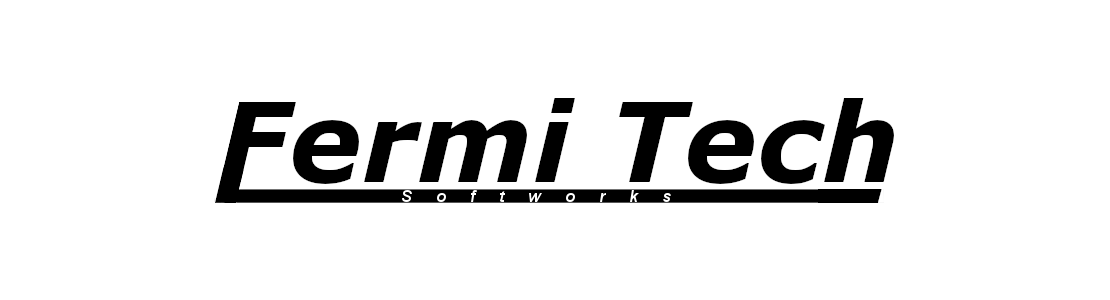
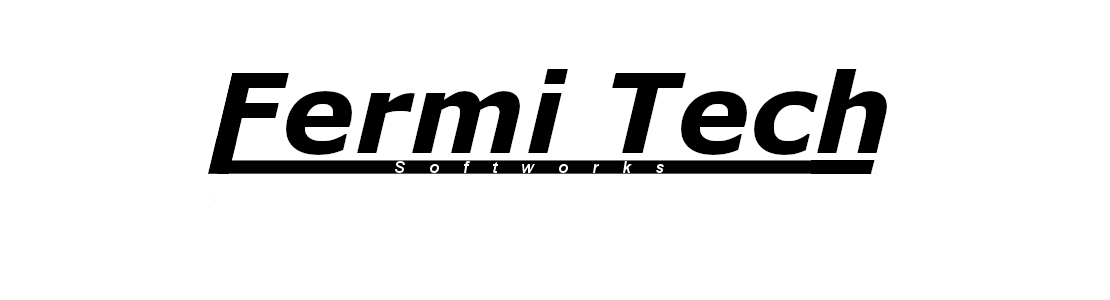
Add product list and product edit page

Changed region(s): [[0.1838, 0.21, 0.827, 0.69]]

diff --git a/templates/Amministrazione/Prodotti/product_edit.htm b/templates/Amministrazione/Prodotti/product_edit.htm
@@ -1,0 +1,32 @@
+{% extends "stampo.htm" %}
+{% block title %}Aggiunta prodotto{% endblock %}
+{% block content %}
+<form action="/prodotto_edit/{{prodotto.pid}}" method="POST">
+    <div class="form-row">
+        <div class="form-group col-md-3">
+            <label for="nome" class="col-form-label">Nome del prodotto</label>
+            <input type="text" class="form-control" id="nome" placeholder="Qualcosa-one" value="{{prodotto.nome}}"
+                   name="nome">
+        </div>
+        <div class="form-group col-md-9">
+            <label for="dbreve" class="col-form-label">Descrizione breve</label>
+            <input type="text" class="form-control" id="dbreve" placeholder="Un potente software che..."
+                   value="{{prodotto.descrizione_breve}}" name="dbreve">
+        </div>
+    </div>
+    <div class="form-row">
+        <label for="destesa" class="col-form-label">Descrizione estesa</label>
+        <textarea class="form-control" id="destesa" rows="6" name="destesa">{{prodotto.descrizione}}</textarea>
+    </div>
+    <div class="form-row">
+        <div class="form-group col-md-7">
+            <label for="download" class="col-form-label">Link per il download</label>
+            <input type="text" class="form-control" id="download" placeholder="https://github.com/"
+                   value="{{prodotto.downlink}}" name="download">
+        </div>
+    </div>
+    <div class="form-group row">
+        <button type="submit" class="btn btn-primary btn-block">Salva</button>
+    </div>
+</form>
+{%endblock%}

diff --git a/templates/main.htm b/templates/main.htm
@@ -6,7 +6,7 @@
         <div class="carousel-item active">
             <img class="d-block w-100" width="1280" height="300" src="{{ url_for('static', filename='Fermitech.png') }}"
                  alt="First slide">
-            <div class="carousel-caption d-none d-md-block" style="color:white;text-shadow: -1px -1px 0 #000, 1px -1px 0 #000, -1px 1px 0 #000, 1px 1px 0 #000;">
+            <div class="carousel-caption d-none d-md-block" style="color:black;text-shadow: -1px -1px 0 #FFF, 1px -1px 0 #FFF, -1px 1px 0 #FFF, 1px 1px 0 #FFF;">
                 <h5>Benvenuto sul sito di Fermitech Softworks.</a></h5>
                 <p>"Prova"</p>
             </div>
@@ -16,7 +16,7 @@
             <img class="d-block w-100" width="1280" height="300" src="static/{{elemento.image}}" alt="{{loop.index+1}}">
             <div class="carousel-caption d-none d-md-block" >
                 <h5><a href="/product_inspect/{{elemento.pid}}" style="text-shadow: -1px -1px 0 #FFF, 1px -1px 0 #FFF, -1px 1px 0 #FFF, 1px 1px 0 #FFF;">{{elemento.nome}}</a></h5>
-                <p style="color:white;text-shadow: -1px -1px 0 #000, 1px -1px 0 #000, -1px 1px 0 #000, 1px 1px 0 #000;">{{elemento.descrizione_breve}}</p>
+                <p style="color:black;text-shadow: -1px -1px 0 #FFF, 1px -1px 0 #FFF, -1px 1px 0 #FFF, 1px 1px 0 #FFF;">{{elemento.descrizione_breve}}</p>
             </div>
         </div>
         {%endfor%}

diff --git a/templates/Amministrazione/Prodotti/prodotti_list.htm b/templates/Amministrazione/Prodotti/prodotti_list.htm
@@ -1,0 +1,19 @@
+{% extends "stampo.htm" %}
+{% block title %}Lista prodotti{% endblock %}
+{% block content %}
+<h3>Lista prodotti</h3>
+<table class="table table-hover">
+        <thead>
+        <tr>
+            <th>Prodotto</th>
+            <th>Azioni</th>
+        </tr>
+        </thead>
+        {% for prodotto in prodotti %}
+            <tr>
+                <td>{{ prodotto.nome }}</td>
+                <td><a href="/prodotto_edit/{{ prodotto.pid }}"><i class="fa fa-pencil" aria-hidden="true"></i></a> <a href="/prodotto_del/{{ prodotto.pid }}"><i class="fa fa-ban" aria-hidden="true"></i></a></td>
+            </tr>
+        {% endfor %}
+    </table>
+{%endblock%}

diff --git a/templates/Amministrazione/amministrazione.htm b/templates/Amministrazione/amministrazione.htm
@@ -12,7 +12,7 @@
                     <p class="card-text">Esegui operazioni sui prodotti attualmente registrati.</p>
                     <div class="row">
                         <div class="col-md-4">
-                            <a href="/product_list" class="btn btn-primary btn-block">Lista</a>
+                            <a href="/prodotti_list" class="btn btn-primary btn-block">Lista</a>
                         </div>
                         <div class="col-md-4">
                             <a href="/product_add" class="btn btn-success btn-block">Aggiungi</a>

diff --git a/server.py b/server.py
@@ -5,7 +5,6 @@ import bcrypt
 import os
 import markdown
 
-
 app = Flask(__name__)
 app.secret_key = "debug-attivo"
 UPLOAD_FOLDER = './static'
@@ -119,8 +118,8 @@ def page_product_inspect(pid):
     req = generate_markdown(req)
     lic = generate_markdown(lic)
     down = generate_markdown(down)
-    print(desc, req, lic, down)
-    return render_template("product_inspect.htm", user=users, prodotto=prodotto, css=css, desc=desc, req=req, lic=lic, down=down)
+    return render_template("product_inspect.htm", user=users, prodotto=prodotto, css=css, desc=desc, req=req, lic=lic,
+                           down=down)
 
 
 @app.route('/members')
@@ -144,7 +143,6 @@ def page_amministrazione():
             abort(403)
 
 
-
 @app.route('/product_add', methods=["POST", "GET"])
 def page_product_add():
     if 'username' not in session:
@@ -162,16 +160,47 @@ def page_product_add():
         if file and allowed_file(file.filename):
             filename = secure_filename(file.filename)
             file.save(os.path.join(app.config['UPLOAD_FOLDER'], filename))
-        prodotto = Prodotto(request.form['nome'], request.form['destesa'], request.form['dbreve'], request.form['download'], str(file.filename))
+        prodotto = Prodotto(request.form['nome'], request.form['destesa'], request.form['dbreve'],
+                            request.form['download'], str(file.filename))
         db.session.add(prodotto)
         db.session.commit()
         return redirect(url_for('page_amministrazione'))
 
 
+@app.route('/prodotti_list')
+def page_prodotti_list():
+    if 'username' not in session:
+        abort(403)
+    utente = find_user(session['username'])
+    prodotti = Prodotto.query.all()
+    css = url_for("static", filename="style.css")
+    return render_template("Amministrazione/Prodotti/prodotti_list.htm", css=css, utente=utente, prodotti=prodotti)
+
+
+@app.route('/prodotto_edit/<int:pid>', methods=["POST", "GET"])
+def page_prodotto_edit(pid):
+    if 'username' not in session:
+        return abort(403)
+    if request.method == 'GET':
+        utente = find_user(session['username'])
+        prodotto = Prodotto.query.get_or_404(pid)
+        css = url_for("static", filename="style.css")
+        return render_template("Amministrazione/Prodotti/product_edit.htm", css=css, utente=utente, prodotto=prodotto)
+    else:
+        prodotto = Prodotto.query.get_or_404(pid)
+        prodotto.nome = request.form['nome']
+        prodotto.descrizione_breve = request.form['dbreve']
+        prodotto.descrizione = request.form['destesa']
+        prodotto.downlink = request.form['download']
+        db.session.commit()
+        return redirect(url_for('page_prodotti_list'))
+
+
 if __name__ == "__main__":
     # Se non esiste il database viene creato
     if not os.path.isfile("db.sqlite"):
-        utente = User("Lorenzo", "Balugani", "Perito Informatico", "Programmatore", "lorenzo.balugani@gmail.com", "password", "Marmelle")
+        utente = User("Lorenzo", "Balugani", "Perito Informatico", "Programmatore", "lorenzo.balugani@gmail.com",
+                      "password", "Marmelle")
         db.create_all()
         db.session.add(utente)
         db.session.commit()
